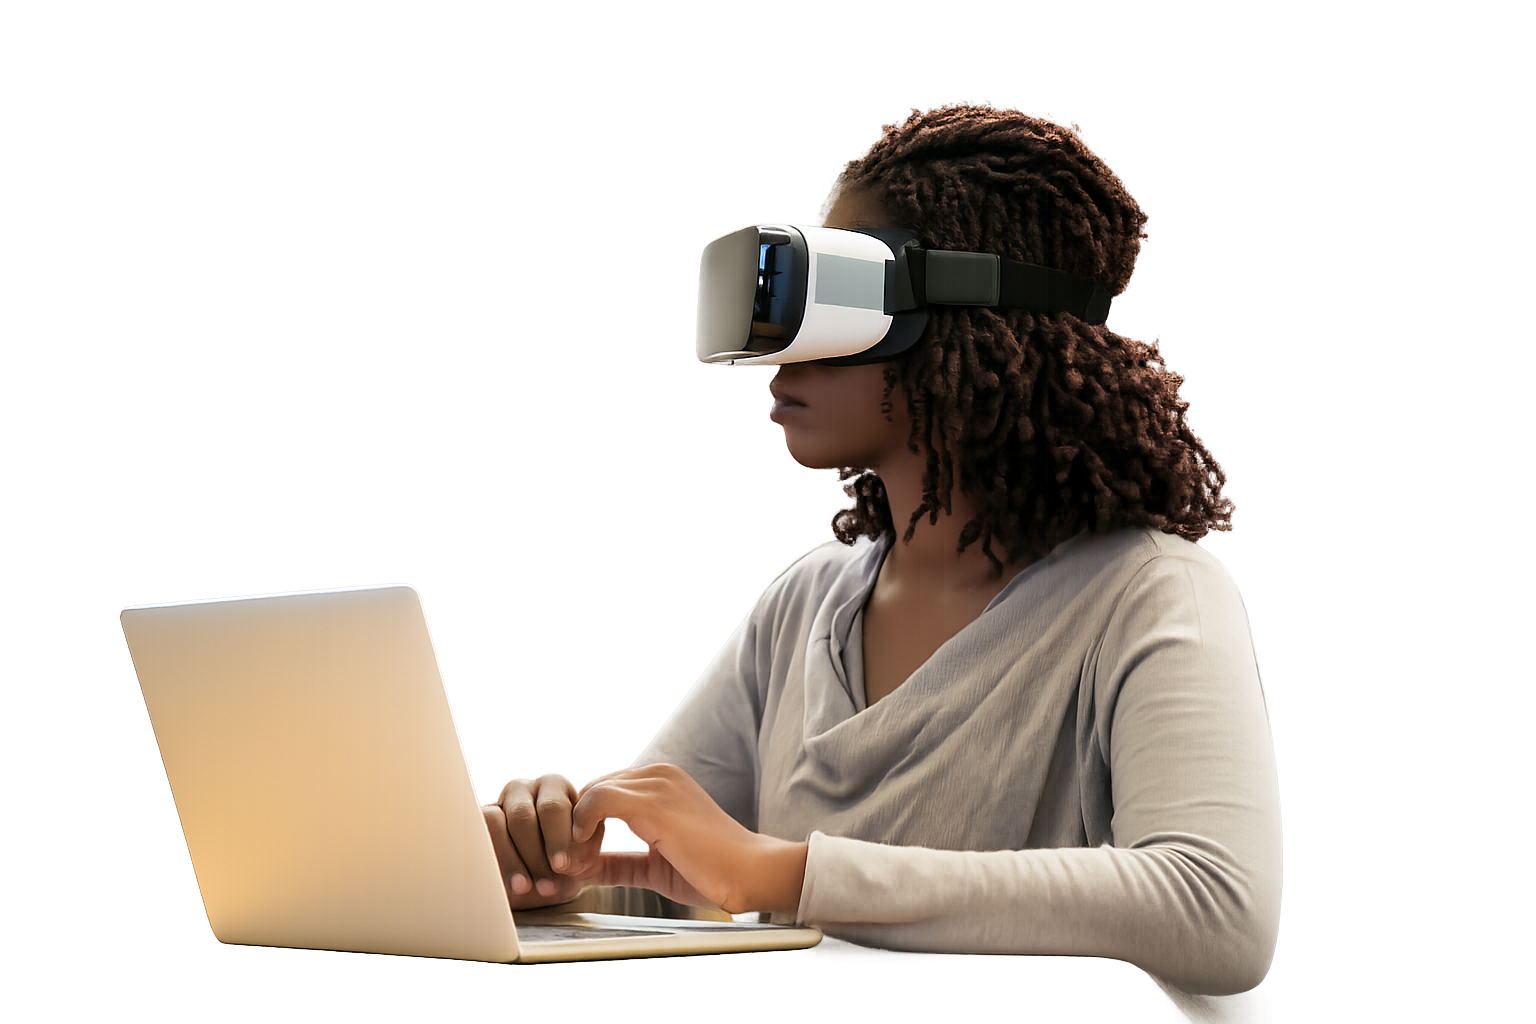
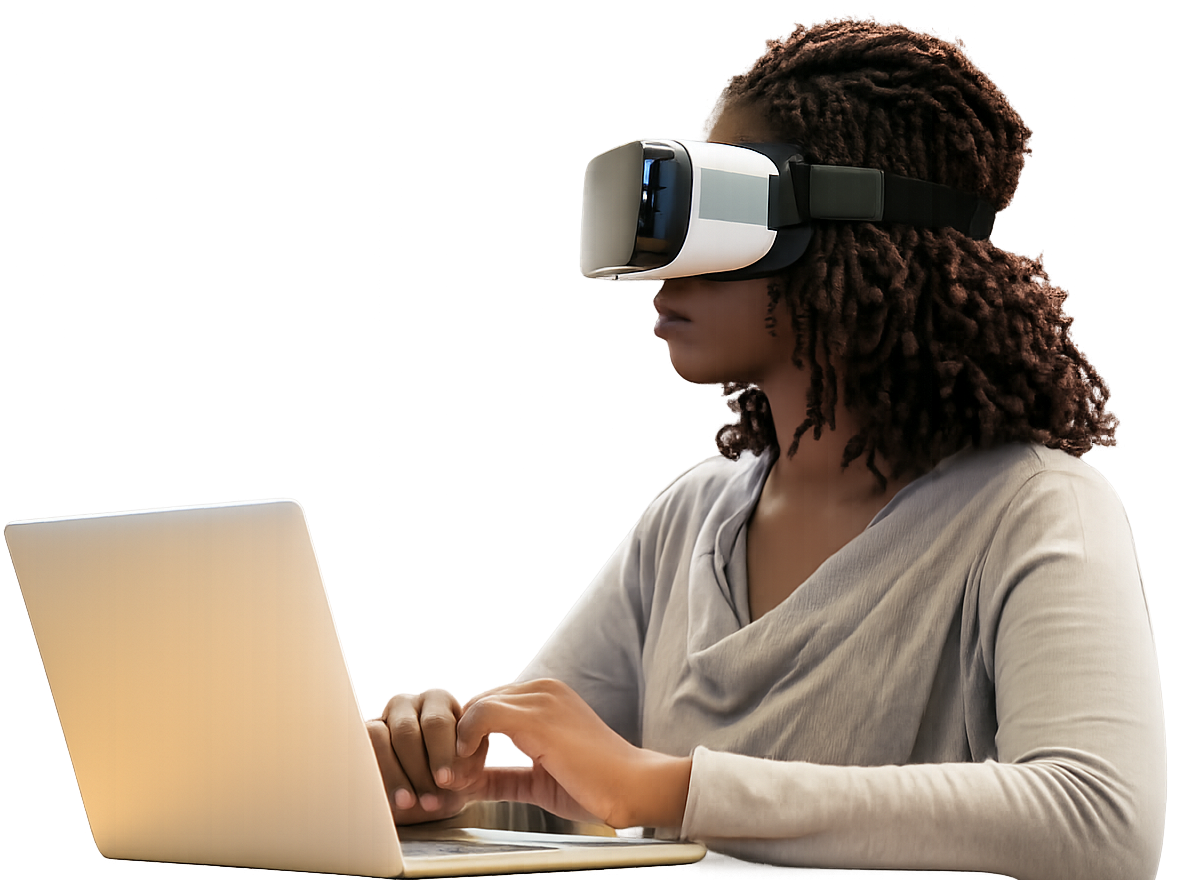
ajustes layout
ajustes da página de "quem somos" e "contato"

diff --git a/static/css/style.css b/static/css/style.css
@@ -63,13 +63,14 @@ a {
 /* LOGO */
 
 .side-logo {
+  margin-left: -15px;
   margin-bottom: 35px;
   display: flex;
   justify-content: flex-start;
 }
 
 .side-logo img {
-  width: 140px;
+  width: 180px;
   height: auto;
 }
 
@@ -312,27 +313,20 @@ section {
 
 .sobre-layout {
   position: relative;
-
   max-width: 1200px;
   margin: 0 auto;
-
-  min-height: 650px;
+  min-height: 550px; 
 }
 
 /* TÍTULO */
 
 .sobre-layout h2 {
   width: 100%;
-
   font-size: 45px;
   font-weight: 800;
-
   line-height: 1.1;
-
   color: #fff;
-
   margin-bottom: 40px;
-
   position: relative;
   z-index: 3;
 }
@@ -340,42 +334,36 @@ section {
 /* CAIXA DE TEXTO */
 
 .sobre-card-texto {
-  width: 80%;
-  height: 330px;
-
-  background: #43B8B5;
-
-  padding: 40px;
-
-  border-radius: 35px;
-
+  width: 85%;
+  height: auto; 
+  background: #6da5c1;
+  padding: 30px; 
+  border-radius: 30px;
   position: absolute;
-
   left: 0;
-  top: 170px;
-
+  bottom: 0; 
   z-index: 1;
+  display: flex;
+  flex-direction: column;
 }
 
 .sobre-card-texto p {
   color: #fff;
-
   font-size: 22px;
-
   line-height: 1.6;
-
   margin-bottom: 20px;
   font-weight: bold;
 }
 
 .logo-sobre {
-  width: 140px;
+  width: 200px;
   height: auto;
-
+  margin-top: 5px;
+  margin-right: auto;
+  margin-left: 0;
   display: block;
-
-  margin-top: 25px;
-  margin-left: auto;
+  position: relative;
+  z-index: 5;
 }
 
 .sobre-card-texto p:last-child {
@@ -386,19 +374,15 @@ section {
 
 .sobre-imagem {
   position: absolute;
-
-  right: 0;
-  top: 80px;
-
-  width: 62%;
-
+  right: 75px;
+  bottom: -20px;
+  width: 50%;
   z-index: 2;
 }
 
 .sobre-imagem img {
   width: 100%;
   height: auto;
-
   display: block;
 }
 
@@ -638,6 +622,55 @@ section {
 }
 
 /* CONTATO */
+
+.contato-info {
+  display: flex;
+  flex-direction: column;
+  gap: 10px;
+  justify-content: center;
+}
+
+.contato-info h2 {
+  line-height: 0.5;
+  font-size: 40px;
+  line-height: 1.6;
+  color: #ffffff;
+}
+
+.contato-info p {
+  font-size: 16px;
+  line-height: 1.6;
+  color: #ffffff;
+}
+
+/* CAIXA DE BENEFÍCIOS (Retângulo vazado com borda azul) */
+.caixa-beneficios {
+  width: fit-content;
+  border: 2px solid var(--accent);
+  border-radius: 16px; 
+  background: transparent; 
+  padding: 24px 30px; 
+  display: flex;
+  flex-direction: column;
+  gap: 16px; 
+}
+
+/* ESTILO DOS ITENS DENTRO DA CAIXA */
+.caixa-beneficios p {
+  color: #ffffff; 
+  font-size: 16px;
+  font-weight:bolder;
+  margin: 0;
+  display: flex;
+  align-items: center;
+  gap: 10px;
+}
+
+/* Opcional: Para dar um "glow" sutil na caixa combinando com seu tema */
+.caixa-beneficios {
+  box-shadow: inset 0 0 10px rgba(0, 240, 255, 0.05), 
+              0 0 15px rgba(0, 240, 255, 0.05);
+}
 
 .contato-page {
   display: grid;

diff --git a/apps/core/templates/contato.html b/apps/core/templates/contato.html
@@ -4,24 +4,16 @@
 
 <section class="contato-page">
 
-  <div class="contato-esquerda">
+<div class="contato-info">
+<h2>Fale com nossos especialistas</h2>
+<p>Preencha os dados ao lado para entrarmos em contato. Nossa equipe está pronta para entender seu cenário.</p>
 
-    <h1>
-      Vamos construir seu projeto juntos
-    </h1>
-
-    <p>
-      Conte sua necessidade e retornaremos
-      com uma proposta personalizada.
-    </p>
-
-    <div class="beneficios">
-      <p>✔ Atendimento consultivo</p>
-      <p>✔ Propostas personalizadas</p>
-      <p>✔ Soluções sob medida</p>
-    </div>
-
+<div class="caixa-beneficios">
+  <p>Atendimento consultivo</p>
+  <p>Propostas personalizadas</p>
+  <p>Soluções sob medida</p>
   </div>
+</div>
 
   <div class="contato-direita">
 
@@ -34,10 +26,6 @@
     <form class="form-orcamento" method="POST">
 
       {% csrf_token %}
-
-      <h3>
-        Preencha e retornamos em até 24 horas
-      </h3>
 
       <div class="grid-form">
 
@@ -83,7 +71,7 @@
       </button>
 
       <small>
-        Retornamos em até 24 horas úteis.
+        Retornaremos em até 24 horas
       </small>
 
     </form>

diff --git a/apps/core/templates/sobre.html b/apps/core/templates/sobre.html
@@ -19,13 +19,12 @@
         aprendem ciência e tecnologia. Nosso objetivo é tornar o <br>
         aprendizado mais acessível, moderno e conectado ao futuro.
       </p>
+      <img
+        src="{% static 'img/logo-sobre.png' %}"
+        alt="Science Box"
+        class="logo-sobre"
+      >
     </div>
-
-    <img
-    src="{% static 'img/logo-sobre.png' %}"
-    alt="Science Box"
-    class="logo-sobre"
-    >
 
     <div class="sobre-imagem">
       <img